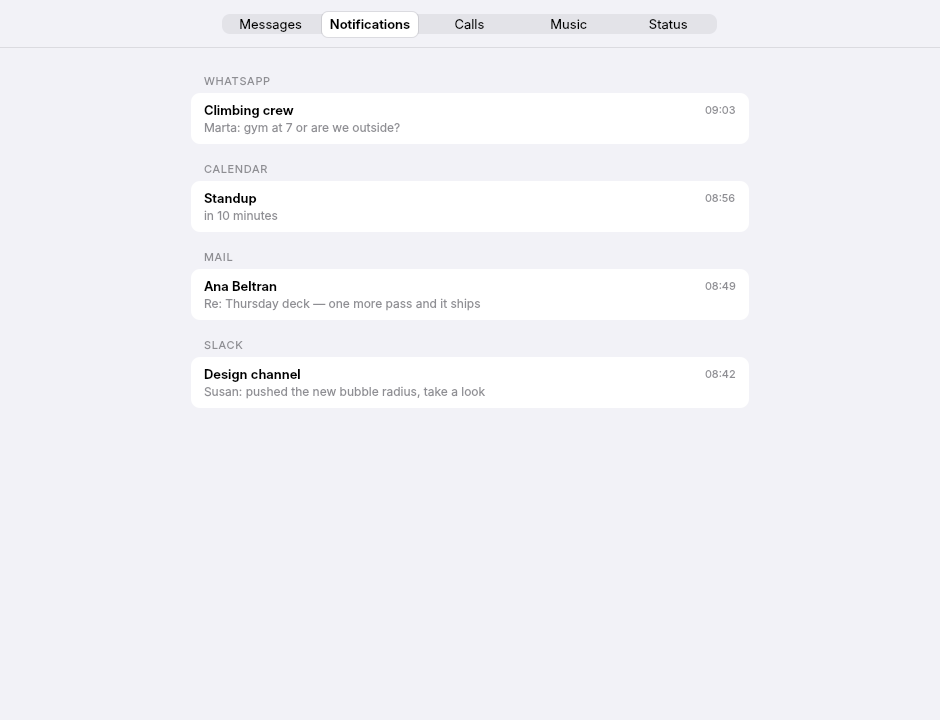
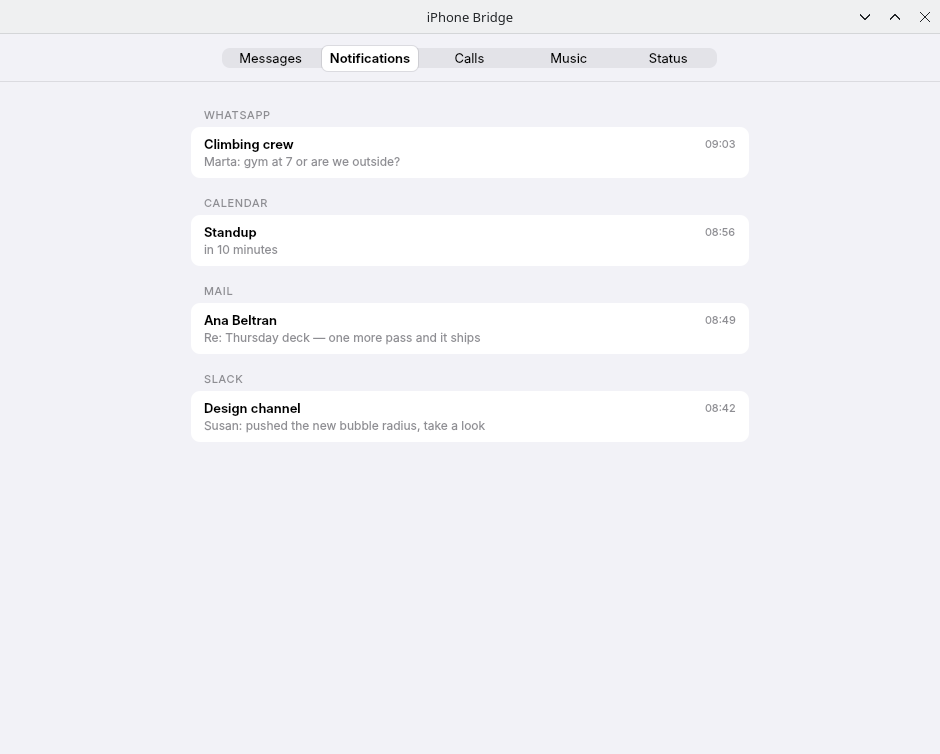
Fix screenshots

diff --git a/screenshots/shoot.py b/screenshots/shoot.py
@@ -265,14 +265,68 @@ def _render(out: pathlib.Path) -> int:
         client.set_available(variant != "offline")
         QTimer.singleShot(SETTLE_MS, lambda: shoot(label))
 
+    def add_titlebar(image, title):
+        """Composite a title bar above the grab.
+
+        grabWindow() returns the scene graph only: decorations belong to
+        the window manager, and offscreen there is none. Drawn here in
+        the Breeze idiom of the target desktop — centred title, chevron
+        minimize/maximize and an ✕, all as strokes — so the captures
+        look like the windows people will actually see.
+        """
+        from PyQt6.QtCore import QPointF, Qt
+        from PyQt6.QtGui import QColor, QImage, QPainter, QPen
+        bar = 34
+        w, h = image.width(), image.height()
+        framed = QImage(w, h + bar, QImage.Format.Format_RGB32)
+        painter = QPainter(framed)
+        painter.fillRect(0, 0, w, bar, QColor("#eff0f1"))
+        painter.setPen(QColor("#d4d6d8"))
+        painter.drawLine(0, bar - 1, w, bar - 1)
+        painter.setPen(QColor("#232629"))
+        f = painter.font()
+        f.setPointSize(10)
+        painter.setFont(f)
+        painter.drawText(0, 0, w, bar - 1,
+                         Qt.AlignmentFlag.AlignCenter, title)
+        pen = QPen(QColor("#232629"))
+        pen.setWidthF(1.3)
+        pen.setCapStyle(Qt.PenCapStyle.RoundCap)
+        painter.setPen(pen)
+        cy = bar / 2
+        slots = [w - 3 * 30 + i * 30 + 15 for i in range(3)]
+        r = 4.5
+        painter.drawPolyline(  # minimize: Breeze's down chevron
+            QPointF(slots[0] - r, cy - r / 2),
+            QPointF(slots[0], cy + r / 2),
+            QPointF(slots[0] + r, cy - r / 2))
+        painter.drawPolyline(  # maximize: up chevron
+            QPointF(slots[1] - r, cy + r / 2),
+            QPointF(slots[1], cy - r / 2),
+            QPointF(slots[1] + r, cy + r / 2))
+        painter.drawLine(QPointF(slots[2] - r, cy - r),
+                         QPointF(slots[2] + r, cy + r))
+        painter.drawLine(QPointF(slots[2] - r, cy + r),
+                         QPointF(slots[2] + r, cy - r))
+        painter.drawImage(0, bar, image)
+        painter.end()
+        return framed
+
     def shoot(name: str) -> None:
         path = out / f"{name}.png"
         image = win.grabWindow()
-        if image.isNull() or not image.save(str(path)):
+        if image.isNull():
             print(f"  !! {path.name}: grab failed", file=sys.stderr)
             state["failures"] += 1
         else:
-            print(f"  {path.name}  {image.width()}x{image.height()}")
+            # The window's own title, so a rename in Main.qml can never
+            # leave the captures lying.
+            image = add_titlebar(image, win.title())
+            if not image.save(str(path)):
+                print(f"  !! {path.name}: save failed", file=sys.stderr)
+                state["failures"] += 1
+            else:
+                print(f"  {path.name}  {image.width()}x{image.height()}")
         state["i"] += 1
         QTimer.singleShot(80, step)
 
